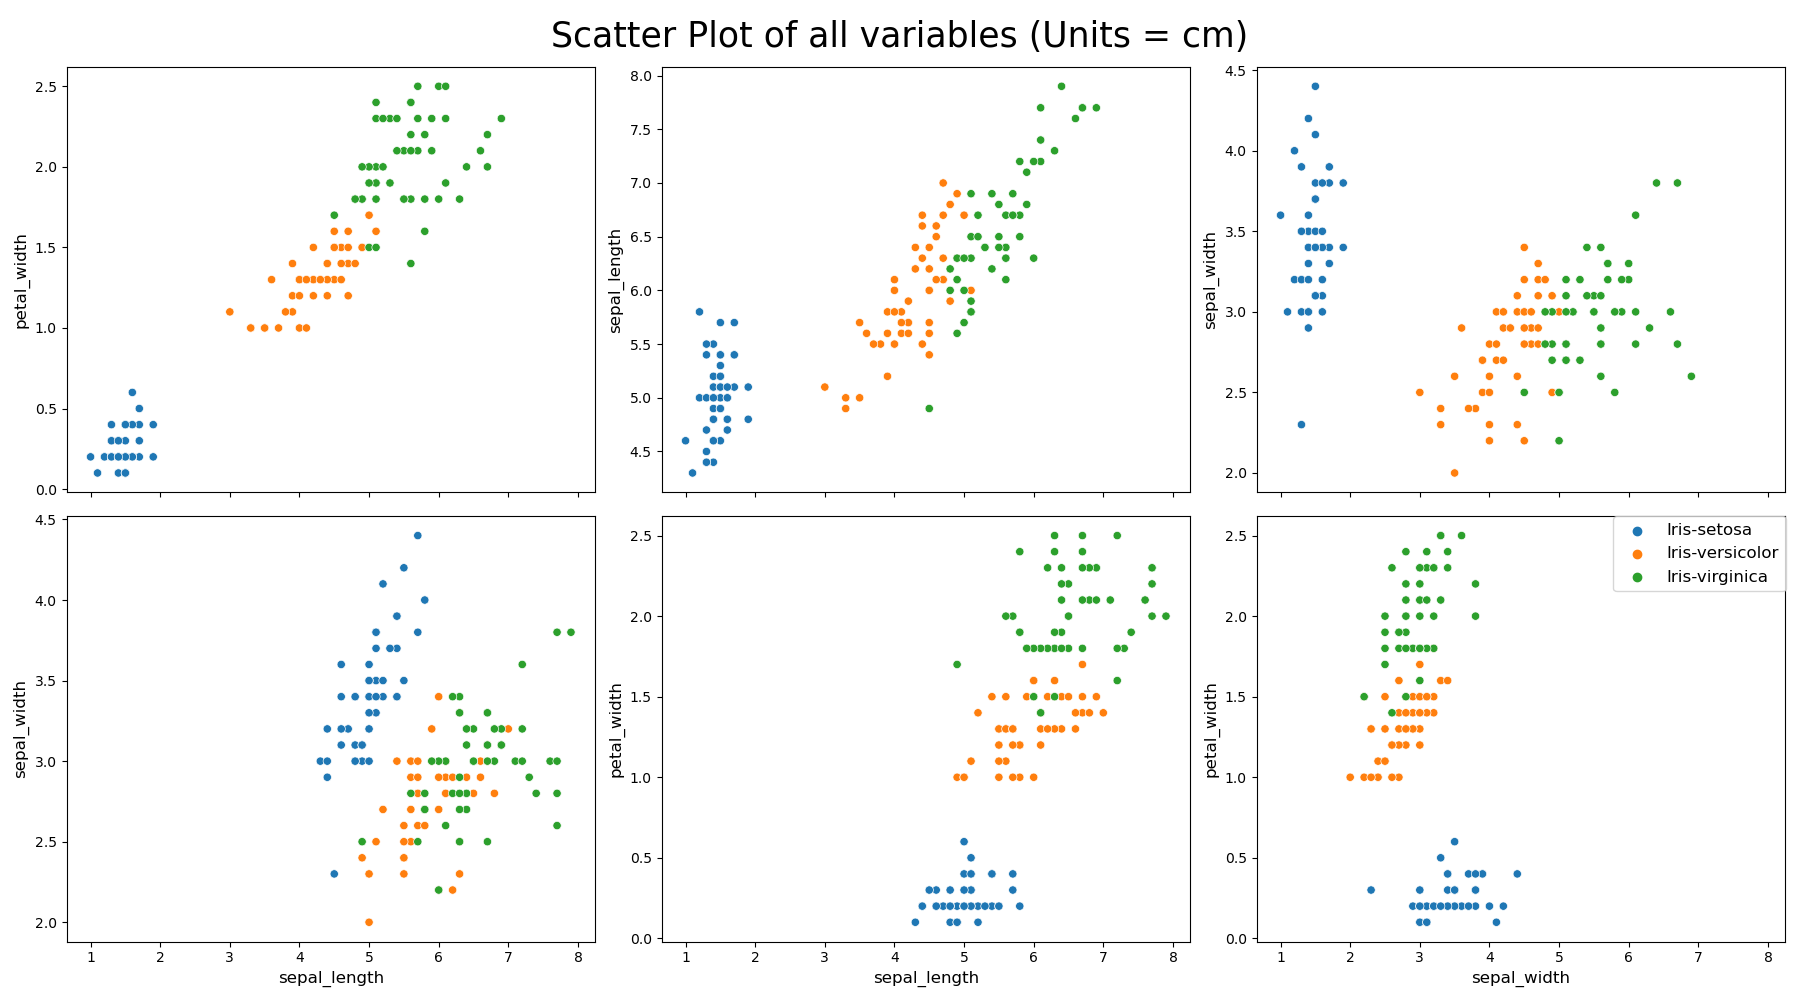
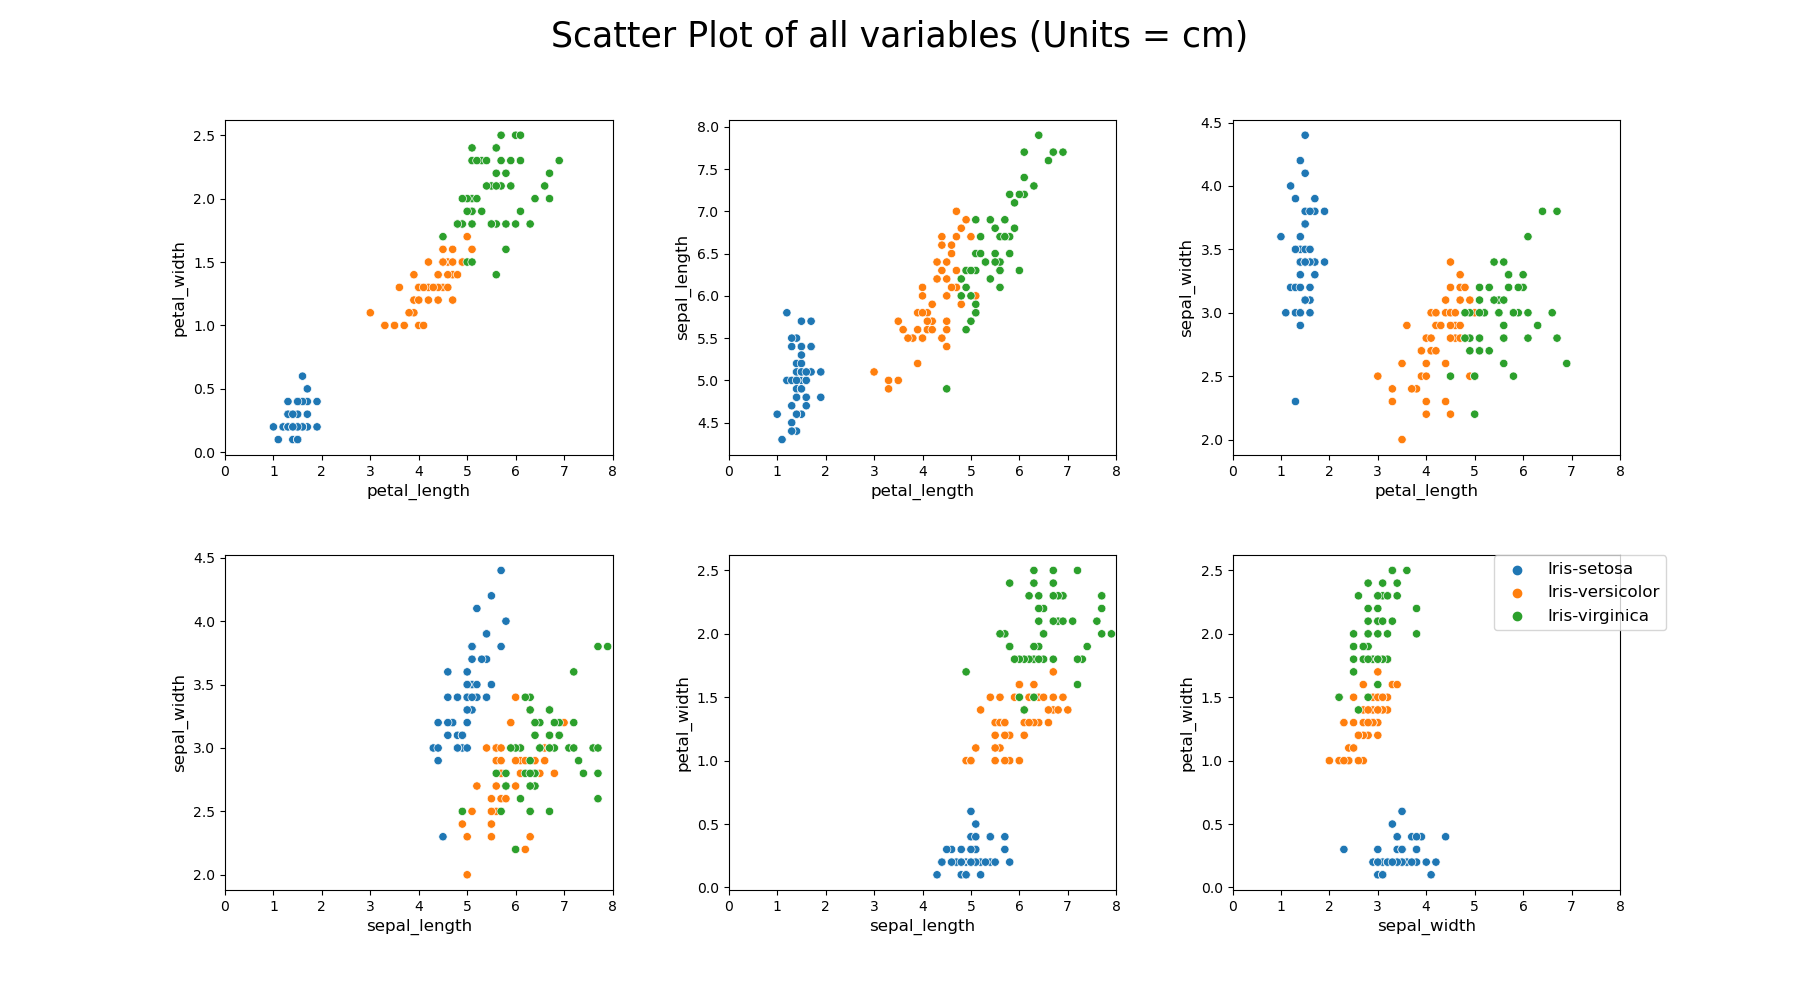
test

diff --git a/Project/analysis.py b/Project/analysis.py
@@ -61,7 +61,7 @@ def write_plot(plot,file_name):
 
 def scatter_plot(): 
 
-    fig, axes = plt.subplots(2, 3, figsize=(18, 10),sharex=True)
+    fig, axes = plt.subplots(2, 3, figsize=(18, 10))
     plt.subplots_adjust(wspace=0.3, hspace=0.3)
     fig.suptitle('Scatter Plot of all variables (Units = cm)',fontsize = 25)
     
@@ -71,7 +71,7 @@ def scatter_plot():
     sns.scatterplot(ax=axes[1, 0], data=iris_df, x='sepal_length', y='sepal_width', hue = 'species',legend = False)
     sns.scatterplot(ax=axes[1, 1], data=iris_df, x='sepal_length', y='petal_width', hue = 'species',legend = False)
     sns.scatterplot(ax=axes[1, 2], data=iris_df, x='sepal_width',  y='petal_width', hue = 'species')
-    fig.tight_layout()
+    #fig.tight_layout()
     plt.legend(fontsize='12', loc = 2 ,bbox_to_anchor=(0.675, 1),borderaxespad=0.,)
 
 
@@ -80,6 +80,7 @@ def scatter_plot():
         y = ax.get_ylabel()
         ax.set_xlabel(x, fontsize=12)
         ax.set_ylabel(y, fontsize=12)
+        ax.set_xlim((0,8))
          
     plt.savefig('Images/' + 'scatter_plots' +'.png')
 
